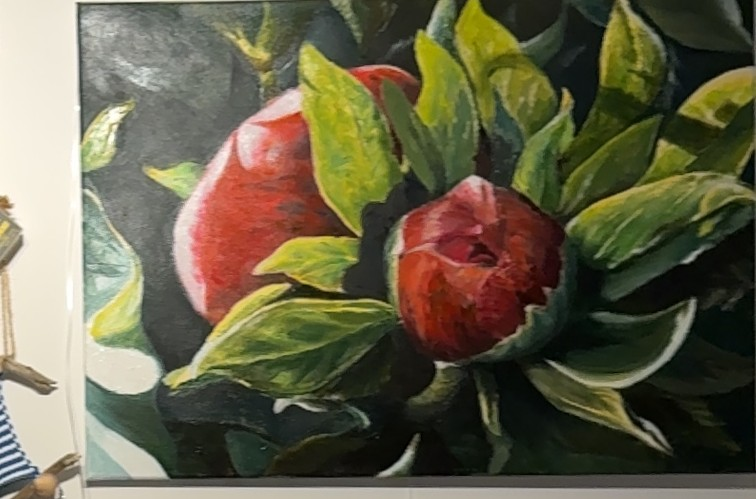
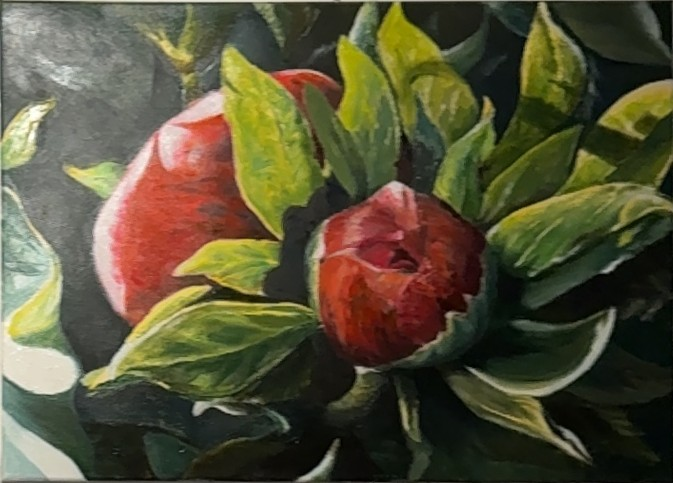
Pictures fill their frames, the mirror reflects
Each picture texture was a wall rectangle cut around an obliquely
photographed frame, so a rim of wall showed with corners that missed
the geometry. Every picture is now pulled straight onto its own four
corners, with a reflecting surface inside the mirror frame.

Slice: baked picture textures, bake tool, mirror glass in the room
Tests: tools/check-walking.js
Red-then-green: n/a (texture alignment, compared by eye against the reported capture)
Visual: expected every picture to reach all four corners of its frame, with the room reflected in the mirror; saw that -> ~/github.com/epologee/screenshots/Knutselkamer 3D/2026-11-18 · Schilderijen recht in hun lijst en een echte spiegel · 01.png
Verified: agent-confirmed
Verified-how: Due to this being a visual alignment, this was confirmed by headless Chromium renders of the painting wall from inside the room plus from the overview against https://knutselkamer.test, with the walking, rearranging, live reload, slow texture, coplanar checks passing

diff --git a/src/room.js b/src/room.js
@@ -1,4 +1,5 @@
 import * as THREE from 'three'
+import { Reflector } from 'three/addons/objects/Reflector.js'
 import { box, rod } from './kit.js'
 import { photoTexture } from './textures.js'
 
@@ -178,6 +179,15 @@ function radiator(m) {
   return parts
 }
 
+function mirrorGlass(glass, width, height, frameDepth) {
+  const glassWidth = (glass.u[1] - glass.u[0]) * width
+  const glassHeight = (glass.v[1] - glass.v[0]) * height
+  const mirror = new Reflector(new THREE.PlaneGeometry(glassWidth, glassHeight), { textureWidth: 1024, textureHeight: 1024, color: '#787c80' })
+  mirror.position.set(((glass.u[0] + glass.u[1]) / 2 - 0.5) * width, ((glass.v[0] + glass.v[1]) / 2 - 0.5) * height, frameDepth / 2 + 0.002)
+  mirror.userData.picture = 'mirror-glass'
+  return mirror
+}
+
 function picture(entry, m) {
   const width = entry.u[1] - entry.u[0]
   const height = entry.v[1] - entry.v[0]
@@ -192,6 +202,7 @@ function picture(entry, m) {
   mesh.castShadow = true
   mesh.receiveShadow = true
   mesh.userData.picture = entry.name
+  if (entry.glass) mesh.add(mirrorGlass(entry.glass, width, height, edge.depth))
   return mesh
 }
 

diff --git a/src/main.js b/src/main.js
@@ -211,8 +211,9 @@ async function start() {
     meter.textContent = `${Math.round(1000 / average)} fps · ${drawCalls} draw calls`
   }
 
-  const clock = new THREE.Clock()
+  const clock = new THREE.Timer()
   renderer.setAnimationLoop(() => {
+    clock.update()
     const seconds = Math.min(clock.getDelta(), 0.1)
     if (walking.isActive()) walking.update(seconds)
     else controls.update()

diff --git a/tools/bake_textures.py b/tools/bake_textures.py
@@ -14,6 +14,7 @@ import sys
 
 import numpy as np
 from PIL import Image, ImageFilter
+from skimage import transform
 
 sys.path.insert(0, os.path.dirname(os.path.abspath(__file__)))
 
@@ -23,17 +24,20 @@ from roomframe import ROOM
 PX_PER_M = 900
 
 PICTURES = [
-    dict(name="pansies", wall="right", u=(0.2, 0.9), v=(1.89, 2.39)),
-    dict(name="harbour", wall="right", u=(0.93, 1.47), v=(1.9, 2.33)),
-    dict(name="bridge", wall="right", u=(0.245, 0.895), v=(1.115, 1.8)),
-    dict(name="mirror", wall="right", u=(1.035, 1.55), v=(1.2, 1.81)),
-    dict(name="print", wall="right", u=(1.59, 2.025), v=(1.675, 2.02)),
-    dict(name="family", wall="right", u=(1.61, 2.08), v=(1.26, 1.57)),
-    dict(name="apples", wall="right", u=(2.195, 3.035), v=(1.62, 2.175)),
-    dict(name="poppy", wall="right", u=(2.48, 2.84), v=(1.265, 1.535)),
-    dict(name="drawing", wall="window", u=(0.835, 1.33), v=(2.1, 2.43)),
-    dict(name="fields", wall="window", u=(1.65, 2.37), v=(2.11, 2.445)),
-    dict(name="class-photo", wall="back", u=(1.42, 2.045), v=(1.64, 2.19)),
+    dict(name="pansies", wall="right", photo="0155", corners=[(0.273, 2.394), (0.903, 2.391), (0.903, 1.911), (0.303, 1.911)]),
+    dict(name="harbour", wall="right", photo="0156", corners=[(0.944, 2.314), (1.472, 2.331), (1.461, 1.914), (0.963, 1.934)]),
+    dict(name="bridge", wall="right", photo="0153", corners=[(0.254, 1.797), (0.857, 1.793), (0.868, 1.131), (0.291, 1.127)]),
+    dict(
+        name="mirror", wall="right", photo="0156", corners=[(1.043, 1.804), (1.536, 1.804), (1.538, 1.233), (1.054, 1.213)],
+        glass=[(1.141, 1.724), (1.454, 1.727), (1.471, 1.311), (1.15, 1.304)],
+    ),
+    dict(name="print", wall="right", photo="0157", corners=[(1.583, 2.013), (2.010, 2.006), (2.016, 1.693), (1.586, 1.688)]),
+    dict(name="family", wall="right", photo="0152", corners=[(1.679, 1.559), (2.068, 1.574), (2.072, 1.306), (1.698, 1.281)]),
+    dict(name="apples", wall="right", photo="0151", corners=[(2.282, 2.172), (3.033, 2.191), (3.033, 1.650), (2.289, 1.639)]),
+    dict(name="poppy", wall="right", photo="0150", corners=[(2.488, 1.519), (2.832, 1.526), (2.830, 1.286), (2.499, 1.272)]),
+    dict(name="drawing", wall="window", photo="0002", corners=[(0.843, 2.427), (1.317, 2.416), (1.321, 2.102), (0.847, 2.111)]),
+    dict(name="fields", wall="window", photo="0153", corners=[(1.661, 2.441), (2.353, 2.426), (2.353, 2.117), (1.653, 2.122)]),
+    dict(name="class-photo", wall="back", photo="0197", corners=[(1.442, 2.150), (2.034, 2.148), (2.014, 1.663), (1.434, 1.652)]),
 ]
 
 BLUR_BEFORE_PUBLISHING = {"family": 9, "class-photo": 9, "cabinet-door-plus-x": 9, "cabinet-binders": 5}
@@ -92,6 +96,37 @@ def project(points, cam):
     return px, py, depth
 
 
+def straightened_picture(surface, picture, cam):
+    """The picture pulled straight onto its own four corners, plus where it hangs.
+
+    The corners are in wall coordinates, read off the scan photo in the order
+    top left, top right, bottom right, bottom left. The texture covers exactly
+    that quadrilateral, so its corners land on the corners of the geometry.
+    """
+    corners = np.array(picture["corners"], float)
+    width = (np.linalg.norm(corners[1] - corners[0]) + np.linalg.norm(corners[2] - corners[3])) / 2
+    height = (np.linalg.norm(corners[3] - corners[0]) + np.linalg.norm(corners[2] - corners[1])) / 2
+    unit_square = np.array([[0, 0], [1, 0], [1, 1], [0, 1]], float)
+    onto_wall = transform.ProjectiveTransform.from_estimate(unit_square, corners)
+    columns, rows = int(round(width * PX_PER_M)), int(round(height * PX_PER_M))
+    s, t = np.meshgrid((np.arange(columns) + 0.5) / columns, (np.arange(rows) + 0.5) / rows)
+    on_wall = onto_wall(np.stack([s.ravel(), t.ravel()], axis=1)).reshape(rows, columns, 2)
+    origin, u_axis, v_axis = (np.array(surface[k], float) for k in ("origin", "u", "v"))
+    points = origin + on_wall[..., :1] * u_axis + on_wall[..., 1:] * v_axis
+    centre = corners.mean(axis=0)
+    placement = dict(
+        u=[round(float(centre[0] - width / 2), 4), round(float(centre[0] + width / 2), 4)],
+        v=[round(float(centre[1] - height / 2), 4), round(float(centre[1] + height / 2), 4)],
+    )
+    if "glass" in picture:
+        inside = onto_wall.inverse(np.array(picture["glass"], float))
+        placement["glass"] = dict(
+            u=[round(float(inside[:, 0].min()), 4), round(float(inside[:, 0].max()), 4)],
+            v=[round(float(1 - inside[:, 1].max()), 4), round(float(1 - inside[:, 1].min()), 4)],
+        )
+    return sample(points, cam), placement
+
+
 def best_single_photo(points, normal, cams):
     centre = points.reshape(-1, 3).mean(axis=0)
     best, best_score = None, 0.0
@@ -130,14 +165,11 @@ if __name__ == "__main__":
     walls = surfaces()
     manifest = []
     for picture in PICTURES:
-        points, normal = region_points(walls[picture["wall"]], picture["u"], picture["v"])
-        cam = best_single_photo(points, normal, cams)
-        if cam is None:
-            print("no single photo covers", picture["name"])
-            continue
-        publishable(sample(points, cam), picture["name"]).save(os.path.join(out_dir, picture["name"] + ".jpg"), quality=90)
-        manifest.append(picture)
-        print(picture["name"], os.path.basename(cam["file"]))
+        cam = next(c for c in cams if os.path.basename(c["file"]) == picture["photo"] + ".jpg")
+        image, placement = straightened_picture(walls[picture["wall"]], picture, cam)
+        publishable(image, picture["name"]).save(os.path.join(out_dir, picture["name"] + ".jpg"), quality=90)
+        manifest.append(dict(name=picture["name"], wall=picture["wall"], **placement))
+        print(picture["name"], f"{(placement['u'][1] - placement['u'][0]) * 100:.1f} x {(placement['v'][1] - placement['v'][0]) * 100:.1f} cm")
     json.dump(manifest, open(os.path.join(out_dir, "pictures.json"), "w"), indent=1)
 
     for name, side in (("cabinet-door-plus-x", 1),):

diff --git a/README.md b/README.md
@@ -30,7 +30,7 @@ De ruwe scan staat in `scan/` en blijft buiten git (290 MB, met foto's uit de ka
 - `python3 -I tools/survey.py scan/Room walls` controleert dat de vier wanden uit de mesh op het stelsel liggen. Met `box` en `map` meet je een meubel op: omtrek, hoogte en een hoogtekaart van bovenaf.
 - `node tools/export-layout.js > reference/layout.json` en daarna `python3 -I tools/measure.py scan/Room reference/layout.json reference/measure` tekenen de gemodelleerde grondvlakken over de mesh, per hoogteband. Elk grondvlak hoort op zijn meubel te vallen.
 - `python3 -I tools/mosaic.py scan/Room reference/mosaic` bakt per wand en voor de vloer een rechtgetrokken fotomozaïek op 240 px per meter. Daaruit zijn deur, raam, schilderijen, kleed en mat afgelezen.
-- `python3 -I tools/bake_textures.py scan/Room public/baked` snijdt elk schilderij, de ordnerrij, het prikbord op de kastdeur en het uitzicht uit de best passende scanfoto. De regio's staan bovenin dat bestand.
+- `python3 -I tools/bake_textures.py scan/Room public/baked` trekt elk schilderij recht op zijn eigen vier hoeken, zodat de hoeken van de afbeelding op de hoeken van de lijst vallen. De hoeken staan per schilderij bovenin dat bestand in wandcoördinaten en zijn afgelezen op een uitsnede van de scanfoto met maatraster. Hetzelfde script snijdt de ordnerrij, het prikbord op de kastdeur en het uitzicht uit.
 
 Een meubel verplaatsen of toevoegen in `src/layout.js` begint dus bij een meting met `survey.py`, niet bij een schatting uit een foto.
 
